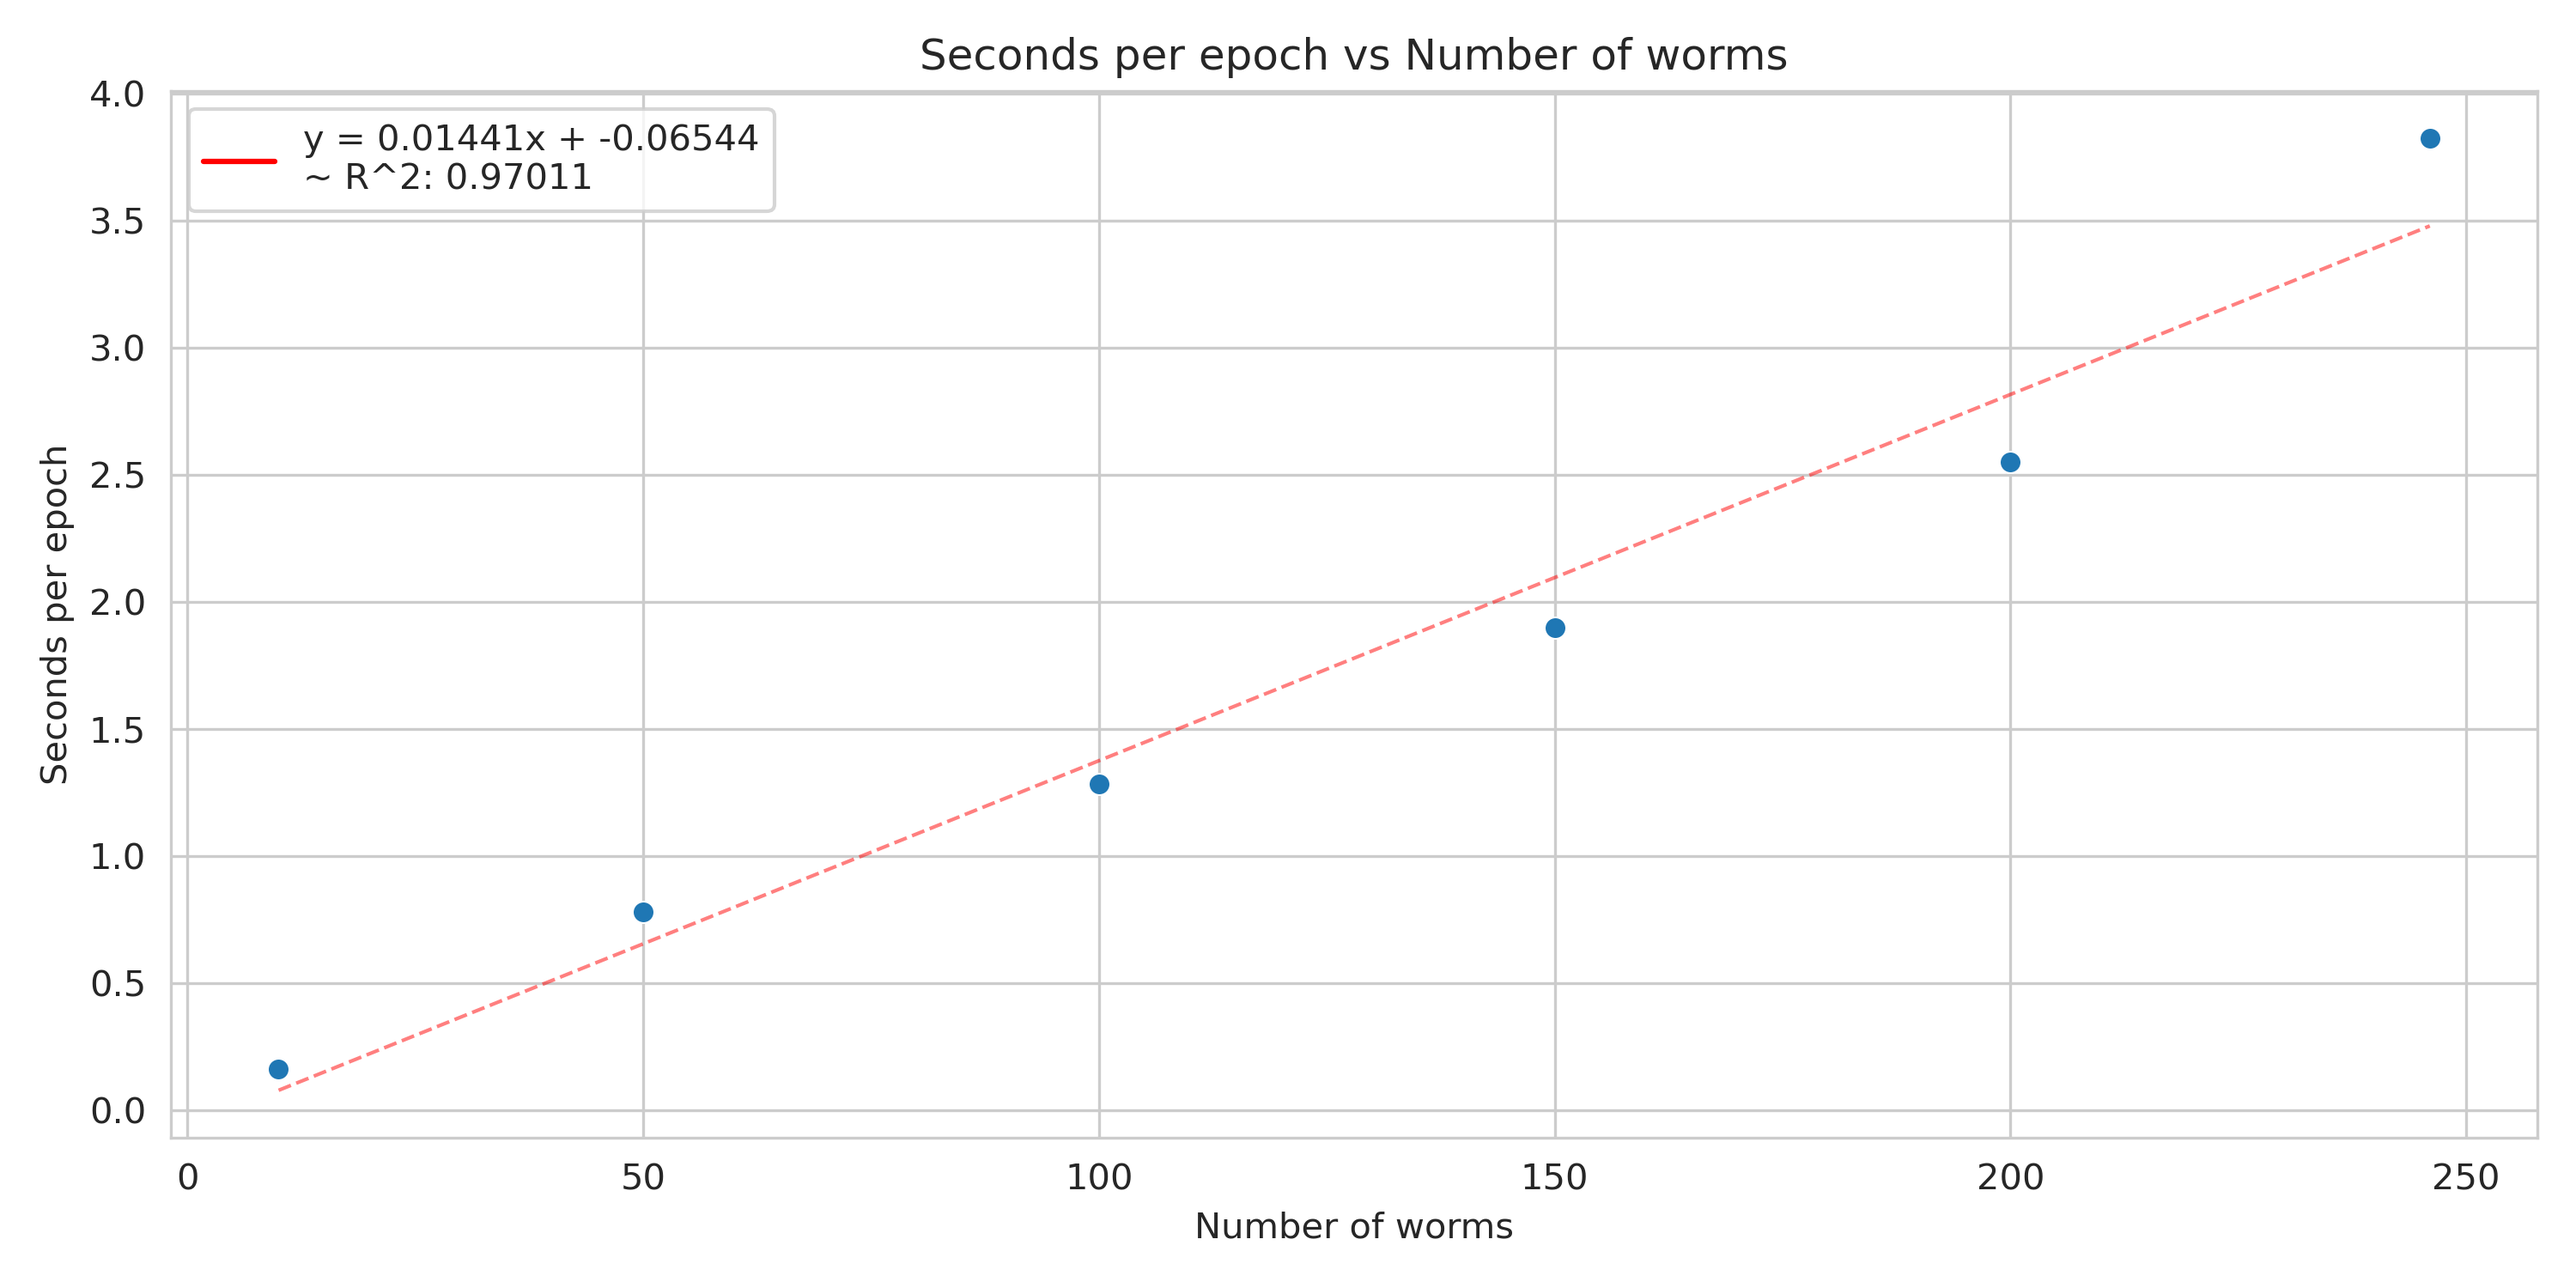
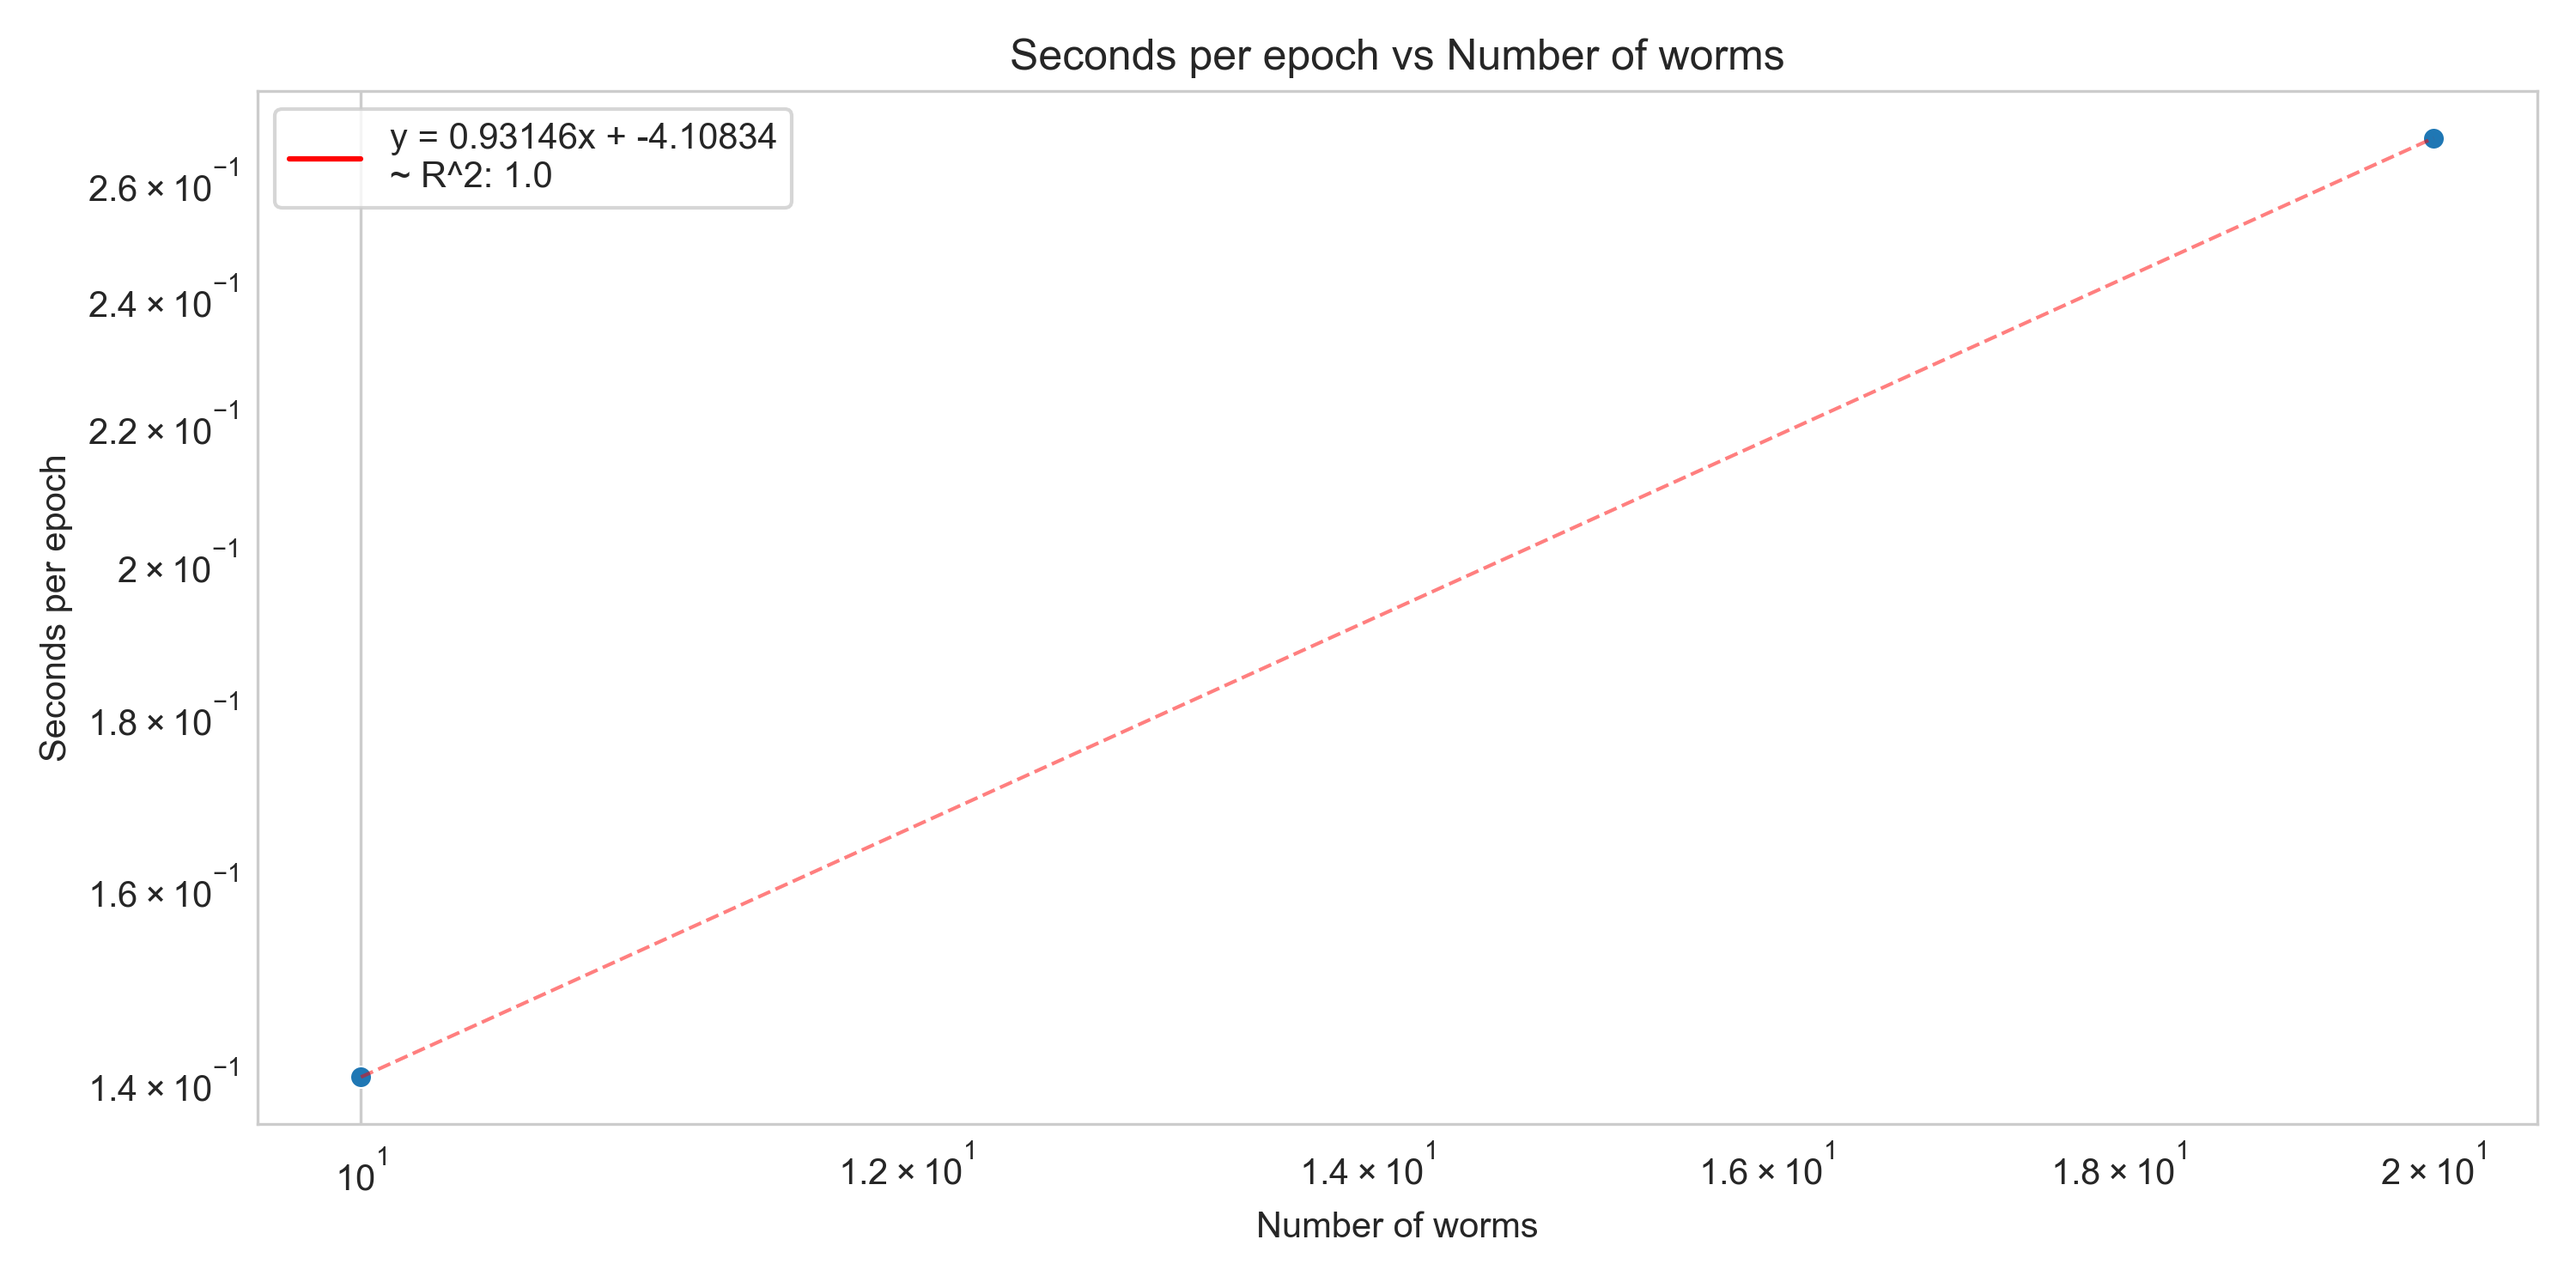
computation time plot working

diff --git a/visualize/_utils.py b/visualize/_utils.py
@@ -780,3 +780,140 @@ def plot_heat_map(
 
     # Show the plot
     plt.tight_layout()
+
+def seconds_per_epoch_plot(exp_log_dir, key, log_scale=True):
+
+    if key == 'num_worms':
+        key_name = 'Number of worms'
+    elif key == 'num_named_neurons':
+        key_name = 'Number of named neurons'
+    elif key == 'loss':
+        key_name = 'Loss'
+    elif key == 'seq_len':
+        key_name = 'Sequence length'
+    elif key == 'num_samples':
+        key_name = 'Number of samples'
+    elif key == 'hidden_size':
+        key_name = 'Hidden size'
+    elif key == 'worm_timesteps':
+        key_name = 'Worm timesteps'
+    elif key == 'optimizer':
+        key_name = 'Optimizer'
+    elif key == 'learn_rate':
+        key_name = 'Learning rate'
+    else:
+        print('Experiment not registered.\n Registered experiments: \
+              num_worms, num_named_neurons, loss, seq_len, num_samples, hidden_size, worm_timesteps, optimizer or learn_rate')
+        # End execution
+        return None
+
+    # Store seconds per epoch, number of named neurons and number of worms
+    seconds_per_epoch = []
+    num_named_neurons = []
+    num_worms = []
+    loss_type = []
+    seq_len = []
+    num_samples = []
+    hidden_size = []
+    worm_timesteps = []
+    optimizer = []
+    lr = []
+
+    # Loop over all folders inside the log directory
+    for folder in os.listdir(exp_log_dir):
+        # Skip .submitit folder and multirun.yaml file
+        if folder == '.submitit' or folder == 'multirun.yaml' or folder == 'scaling_laws':
+            continue
+        # Load the config file inside each folder
+        pipeline_info = OmegaConf.load(os.path.join(exp_log_dir, folder, 'pipeline_info.yaml')).submodule
+        train_info = OmegaConf.load(os.path.join(exp_log_dir, folder, 'train_info.yaml'))
+        # Extract seconds_per_epoch from the config file
+        seconds_per_epoch.append(train_info['seconds_per_epoch'])
+        # Extract num_named_neurons from the config file
+        num_named_neurons.append(pipeline_info['dataset']['train']['num_named_neurons'])
+        # Extract num_worms from the config file
+        num_worms.append(pipeline_info['dataset']['train']['num_worms'])
+        # Extract loss_type from the config file
+        loss_type.append(pipeline_info['model']['loss'])
+        # Extract seq_len from the config file
+        seq_len.append(pipeline_info['train']['seq_len'])
+        # Extract num_samples from the config file
+        num_samples.append(pipeline_info['train']['num_samples'])
+        # Extract hidden_size from the config file
+        hidden_size.append(pipeline_info['model']['hidden_size'])
+        # Extract worm_timesteps from the config file
+        worm_timesteps.append(train_info['worm_timesteps'])
+        # Extract optimizer
+        optimizer.append(pipeline_info['train']['optimizer'])
+        # Extract learn_rate
+        lr.append(pipeline_info['train']['learn_rate'])
+
+    # Create a dataframe with the seconds per epoch, number of named neurons and number of worms
+    df = pd.DataFrame({'seconds_per_epoch': seconds_per_epoch, 'num_named_neurons': num_named_neurons,
+    'num_worms': num_worms, 'loss': loss_type, 'seq_len': seq_len, 'num_samples': num_samples, 'hidden_size': hidden_size,
+    'worm_timesteps': worm_timesteps, 'optimizer': optimizer, 'learn_rate': lr})
+
+    # Plot the seconds per epoch vs the number of worms
+    fig, ax = plt.subplots(figsize=(10, 5))
+    # Use whitegrid style
+    sns.set_style('whitegrid')
+    sns.set_palette('tab10')
+    # Plot the data using sns bar plot
+    sns.barplot(data=df, x=key, y='seconds_per_epoch', ax=ax)
+    # Set the x axis and y axis labels according to the key
+    plt.xlabel(key_name)
+    plt.ylabel('Seconds per epoch')
+    # Set title according to the key
+    plt.title('Seconds per epoch vs {}'.format(key_name))
+    plt.tight_layout()
+    # plt.show()
+    plt.close()
+    # Save the plot
+    fig.savefig(os.path.join(exp_log_dir, 'scaling_laws', 'seconds_per_epoch_bar'), dpi=300)
+
+    if key == 'num_worms' or key == 'seq_len' or key == 'num_samples' or key == 'hidden_size' or key == 'worm_timesteps':
+        # Plot the seconds per epoch vs the number of worms
+        fig, ax = plt.subplots(figsize=(10, 5))
+        # Use whitegrid style
+        sns.set_style('whitegrid')
+        sns.set_palette('tab10')
+        # Plot the data using sns scatterplot
+        sns.scatterplot(data=df, x=key, y='seconds_per_epoch', ax=ax)
+        # Regression line
+        if log_scale:
+            # Use log scale for the x axis and y axis
+            ax.set_xscale('log')
+            ax.set_yscale('log')
+            slope, intercept, r_value, p_value, std_err = stats.linregress(np.log(df[key]), np.log(df['seconds_per_epoch']))
+            # Add the regression line to the plot using sns lineplot
+            x = np.linspace(df[key].min(), df[key].max(), 1000)
+            y = np.exp(intercept) * x ** slope
+        else:
+            slope, intercept, r_value, p_value, std_err = stats.linregress(df[key], df['seconds_per_epoch'])
+            # Add the regression line to the plot using sns lineplot
+            x = np.linspace(df[key].min(), df[key].max(), 1000)
+            y = slope * x + intercept
+        # Write the regression line equation as a label
+        label = 'y = {}x + {}\n~ R^2: {}'.format(round(slope, 5), round(intercept, 5), round(r_value ** 2, 5))
+        sns.lineplot(x=x, y=y, ax=ax, label=label, color='red')
+        # Use dashed line style
+        ax.lines[0].set_linestyle("--")
+        # Reduce the opacity of the regression line
+        ax.lines[0].set_alpha(0.5)
+        # Reduce size of the regression line
+        ax.lines[0].set_linewidth(1)
+
+        # Set the x axis and y axis labels according to the key
+        plt.xlabel(key_name)
+        plt.ylabel('Seconds per epoch')
+        # Set title according to the key
+        plt.title('Seconds per epoch vs {}'.format(key_name))
+        plt.tight_layout()
+        # plt.show()
+        plt.close()
+        # Save the plot inside the scaling_laws folder
+        fig.savefig(os.path.join(exp_log_dir, 'scaling_laws', 'seconds_per_epoch_scatter'), dpi=300)
+
+
+    # Return df, fig and ax so we can customize the plot if we want
+    return df, fig, ax

diff --git a/main.py b/main.py
@@ -4,14 +4,9 @@ from pkg import *
 def pipeline(cfg: DictConfig) -> None:
     """Create a custom pipeline"""
 
-    if 'exp_name' in cfg:
-        print(f"\nExperiment name: {cfg.exp_name}")
-
     # Verifications
     if len(cfg) == 1: # only the pipeline module
         raise ValueError("No submodules in the pipeline. Run python main.py +experiment=your_experiment")
-
-    # print(OmegaConf.to_yaml(cfg), end="\n\n")
     
     if 'train' in cfg.submodule:
         assert 'model' in cfg.submodule, "Model must be defined before training."
@@ -50,12 +45,12 @@ def pipeline(cfg: DictConfig) -> None:
             train_config = cfg.submodule.train,
             model = model,
             dataset = dataset_train
-        ) # working
-        # Update cfg.submodule parameters
-        cfg.submodule.dataset = OmegaConf.merge(cfg.submodule.dataset, submodules_updated.dataset)
-        cfg.submodule.model = OmegaConf.merge(cfg.submodule.model, submodules_updated.model)
+        )
+        # Update cfg.submodule
+        cfg.submodule.dataset = OmegaConf.merge(cfg.submodule.dataset, submodules_updated.dataset) # update dataset.train name
+        cfg.submodule.model = OmegaConf.merge(cfg.submodule.model, submodules_updated.model) # update checkpoint path
         if 'visualize' in cfg.submodule:
-            cfg.submodule.visualize = OmegaConf.merge(cfg.submodule.visualize, submodules_updated.visualize)
+            cfg.submodule.visualize = OmegaConf.merge(cfg.submodule.visualize, submodules_updated.visualize) # update log_dir
 
     if 'predict' in cfg.submodule:
         submodules_updated = make_predictions(
@@ -63,10 +58,10 @@ def pipeline(cfg: DictConfig) -> None:
             model =  model,
             dataset = dataset_predict,
         )
-        # Update cfg.submodule parameters
-        cfg.submodule = OmegaConf.merge(cfg.submodule, submodules_updated)
+        # Update cfg.submodule
+        cfg.submodule.dataset = OmegaConf.merge(cfg.submodule.dataset, submodules_updated.dataset) # update dataset.predict name
         if 'visualize' in cfg.submodule:
-            cfg.submodule.visualize = OmegaConf.merge(cfg.submodule.visualize, submodules_updated.visualize)
+            cfg.submodule.visualize = OmegaConf.merge(cfg.submodule.visualize, submodules_updated.visualize) # update log_dir
 
     # ================== Save updated configs ==================
 
@@ -90,11 +85,17 @@ def pipeline(cfg: DictConfig) -> None:
 
     if 'visualize' in cfg.submodule:
         plot_figures(
-            visualize_config = cfg.submodule.visualize
+            visualize_config = cfg.submodule.visualize,
         )
 
     if 'analysis' in cfg.submodule:
         print(cfg.submodule.analysis)
+
+    if 'experiment' in cfg:
+        # Go one level up
+        log_dir = os.path.dirname(log_dir) # Because experiments run in multirun mode
+        print(log_dir)
+        plot_scaling_laws(log_dir, cfg.experiment)
 
     clear_cache() # Free up GPU
 

diff --git a/visualize/_main.py b/visualize/_main.py
@@ -48,6 +48,22 @@ def plot_figures(
 
     return None
 
+def plot_scaling_laws(log_dir, exp_config: DictConfig) -> None:
+    """
+    Plots the scaling laws for the worm neural activity dataset.
+    """
+
+    # Scaling law plots
+    scaling_law_dir = os.path.join(log_dir, "scaling_laws")
+    os.makedirs(scaling_law_dir, exist_ok=True)
+
+    # Computation time
+    df, fig, ax = seconds_per_epoch_plot(exp_log_dir = log_dir,
+                                         key = exp_config.name,
+                                         log_scale = exp_config.options.log_scale)
+
+    return None
+
 
 if __name__ == "__main__":
     config = OmegaConf.load("configs/submodule/visualize.yaml")

diff --git a/pkg.py b/pkg.py
@@ -9,4 +9,4 @@ from models._main import get_model
 from data._main import get_dataset
 from train._main import train_model
 from predict._main import make_predictions
-from visualize._main import plot_figures
+from visualize._main import plot_figures, plot_scaling_laws
